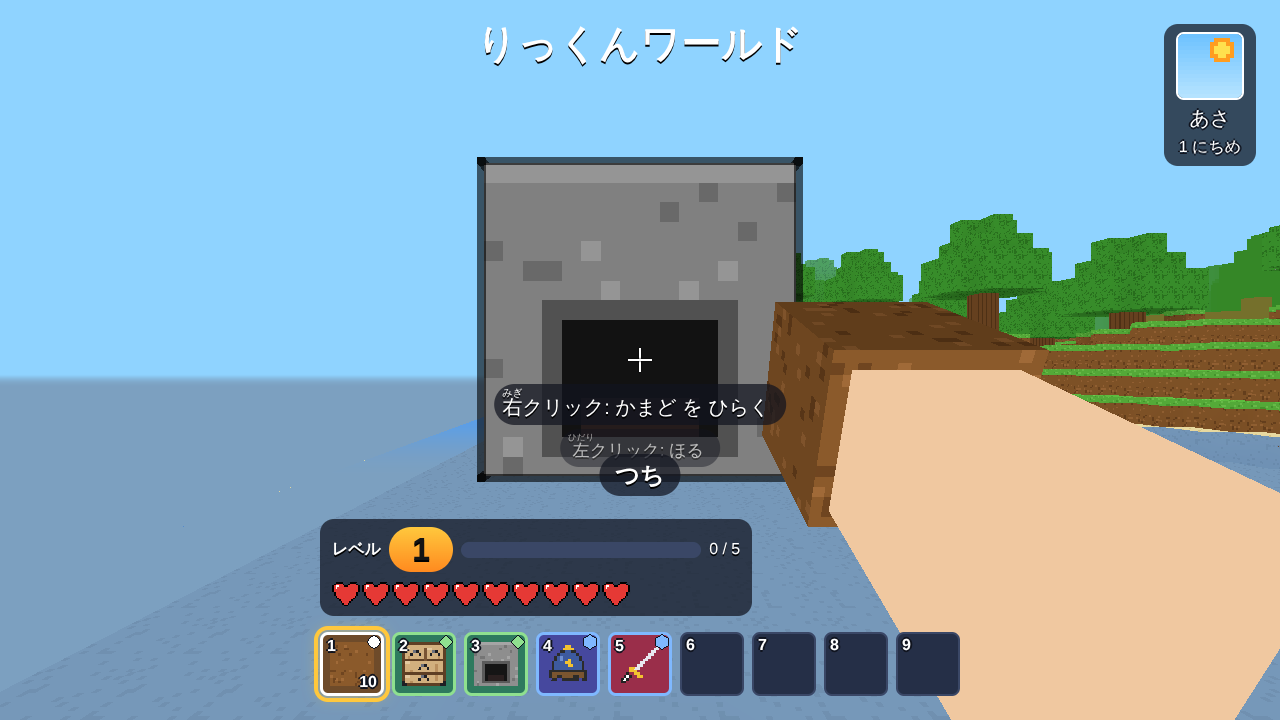
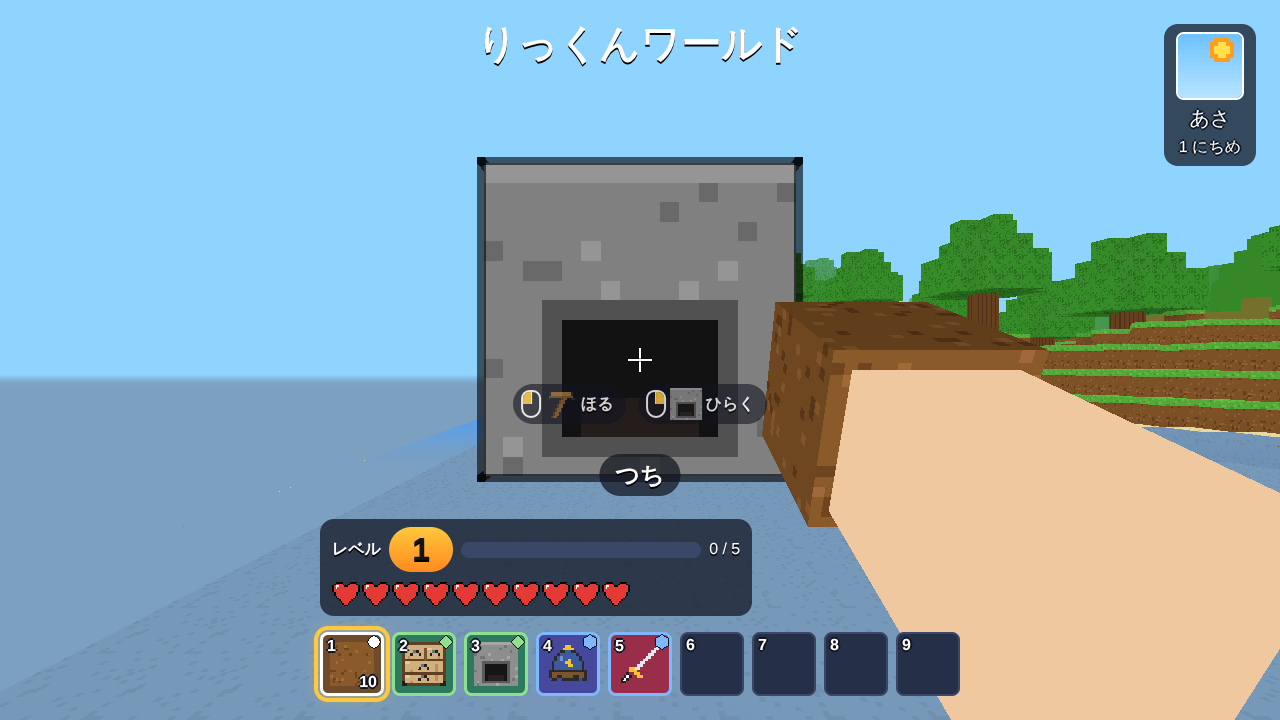
FIX-action-hint: ヒントをアイコン中心に（マウス絵＋すること絵＋1語、左右ならべ、たたく）
Claude-Session: https://claude.ai/code/session_01NoM6CHrWPosSYrqARGTm67

Changed region(s): [[0.375, 0.5194, 0.625, 0.6722]]

diff --git a/src/ui/actionHint.ts b/src/ui/actionHint.ts
@@ -1,15 +1,14 @@
-import { createChip } from './theme/parts';
-import { actionHintHtml, type ActionHintLines } from './actionHintModel';
+import type { ActionHintItem, ActionHintLines } from './actionHintModel';
+import { itemIconUrl } from './itemIcon';
 import './actionHint.css';
 
 /**
- * 照準（＋）の すぐ下に「みぎクリック: 〇〇」を出す小さなチップ（FIX-action-hint）。
- * 文は previewRightClick（実行と同じ判定）から作る。毎ステップ update(lines) を呼ぶ。DOM: `#action-hint`
+ * 照準（＋）の すぐ下の ヒント（FIX-action-hint）。左 = 左クリック、右 = 右クリック を横にならべる。
+ * 1 つ = マウスの絵（L か R が光る）＋ すること の絵 ＋ 小さな 1 語。毎ステップ update(lines) を呼ぶ。DOM: `#action-hint`
  */
 export class ActionHint {
   readonly el: HTMLDivElement;
-  private readonly rightEl: HTMLDivElement;
-  private readonly leftEl: HTMLDivElement;
+  private readonly cells: { left: HTMLDivElement; right: HTMLDivElement };
   private shown: ActionHintLines = {};
 
   constructor(parent: HTMLElement) {
@@ -17,32 +16,43 @@ export class ActionHint {
     this.el.id = 'action-hint';
     this.el.setAttribute('aria-hidden', 'true');
     this.el.hidden = true;
-    this.rightEl = createChip({ text: '' });
-    this.rightEl.classList.add('action-hint__right');
-    this.leftEl = createChip({ text: '' });
-    this.leftEl.classList.add('action-hint__left');
-    this.rightEl.hidden = true;
-    this.leftEl.hidden = true;
-    this.el.append(this.rightEl, this.leftEl);
+    this.cells = { left: this.makeCell('left'), right: this.makeCell('right') };
+    this.el.append(this.cells.left, this.cells.right);
     parent.append(this.el);
   }
 
+  private makeCell(side: 'left' | 'right'): HTMLDivElement {
+    const c = document.createElement('div');
+    c.className = `action-hint__cell action-hint__cell--${side}`;
+    c.hidden = true;
+    c.innerHTML =
+      `<span class="action-hint__mouse"><i class="action-hint__btn action-hint__btn--l"></i><i class="action-hint__btn action-hint__btn--r"></i></span>` +
+      `<img class="action-hint__art" alt=""><span class="action-hint__word"></span>`;
+    c.querySelector('.action-hint__mouse')!.classList.add(`action-hint__mouse--${side}`);
+    return c;
+  }
+
   update(lines: ActionHintLines): void {
-    if (lines.right === this.shown.right && lines.left === this.shown.left) return;
-    this.shown = lines;
-    this.set(this.rightEl, lines.right);
-    this.set(this.leftEl, lines.left);
-    this.el.hidden = !lines.right && !lines.left;
+    if (same(lines.left, this.shown.left) && same(lines.right, this.shown.right)) return;
+    this.shown = { left: lines.left && { ...lines.left }, right: lines.right && { ...lines.right } };
+    this.set(this.cells.left, lines.left);
+    this.set(this.cells.right, lines.right);
+    this.el.hidden = !lines.left && !lines.right;
   }
 
-  /** いま出している文 */
+  /** いま出している 絵と 語 */
   current(): ActionHintLines {
-    return { ...this.shown };
+    return { left: this.shown.left && { ...this.shown.left }, right: this.shown.right && { ...this.shown.right } };
   }
 
-  private set(chip: HTMLDivElement, text: string | undefined): void {
-    chip.hidden = !text;
-    const label = chip.querySelector('.rk-chip__text');
-    if (label) label.innerHTML = text ? actionHintHtml(text) : '';
+  private set(cell: HTMLDivElement, it: ActionHintItem | undefined): void {
+    cell.hidden = !it;
+    if (!it) return;
+    (cell.querySelector('.action-hint__art') as HTMLImageElement).src = itemIconUrl(it.icon);
+    cell.querySelector('.action-hint__word')!.textContent = it.word;
   }
+}
+
+function same(a: ActionHintItem | undefined, b: ActionHintItem | undefined): boolean {
+  return a?.icon === b?.icon && a?.word === b?.word;
 }

diff --git a/src/dig/rightClick.test.ts b/src/dig/rightClick.test.ts
@@ -2,9 +2,7 @@ import { describe, expect, it } from 'vitest';
 import type { BlockId, ItemId, LockStatus, PlayerState } from '../contracts';
 import { ActionState } from '../input/actions';
 import { InventoryImpl } from '../inventory/Inventory';
-import { itemType } from '../inventory/items';
-import { findUnrubiedKanji } from '../ui/text';
-import { actionHintHtml, actionHintLines } from '../ui/actionHintModel';
+import { actionHintLines } from '../ui/actionHintModel';
 import { createDigConfig } from './config';
 import { DigSystemImpl } from './DigSystem';
 
@@ -91,27 +89,35 @@ describe('previewRightClick と 実際の右クリックが同じ', () => {
         });
 });
 
-describe('出る文', () => {
-  const nameOf = (i: ItemId) => itemType(i)?.name ?? i;
+describe('出る絵と語', () => {
   const lines = (held: ItemId | null, target: BlockId | null) => {
     const r = rig(held, target);
-    return actionHintLines(r.dig.previewRightClick(), r.dig.previewLeftClick(), nameOf);
+    return actionHintLines(r.dig.previewRightClick(), r.dig.previewLeftClick(), {
+      held,
+      heldIsPickaxe: held === 'wood_pickaxe',
+      heldIsBlade: held === 'katana',
+    });
   };
-  it('たんす・かまど・防具・置く・なし', () => {
-    expect(lines('dirt', 'tansu').right).toBe('右クリック: たんす を ひらく');
-    expect(lines('dirt', 'furnace').right).toBe('右クリック: かまど を ひらく');
-    expect(lines('kabuto', null).right).toBe('右クリック: かぶと を きる');
-    expect(lines('dirt', 'stone').right).toBe('右クリック: つち を おく');
+  it('右: たんす・かまど・防具・置く・なし', () => {
+    expect(lines('dirt', 'tansu').right).toEqual({ icon: 'tansu', word: 'ひらく' });
+    expect(lines('dirt', 'furnace').right).toEqual({ icon: 'furnace', word: 'ひらく' });
+    expect(lines('kabuto', null).right).toEqual({ icon: 'kabuto', word: 'きる' });
+    expect(lines('dirt', 'stone').right).toEqual({ icon: 'dirt', word: 'おく' });
     expect(lines('katana', 'stone').right).toBeUndefined();
     expect(lines('dirt', null).right).toBeUndefined();
   });
-  it('左クリック', () => {
-    expect(lines('katana', 'stone').left).toBe('左クリック: ほる');
+  it('左: ほる・うつ・なし', () => {
+    expect(lines('wood_pickaxe', 'stone').left).toEqual({ icon: 'wood_pickaxe', word: 'ほる' });
+    expect(lines(null, 'stone').left).toEqual({ icon: 'wood_pickaxe', word: 'ほる' });
     expect(lines(null, 'bedrock').left).toBeUndefined();
     expect(lines(null, null).left).toBeUndefined();
   });
-  it('漢字には ふりがな', () => {
-    expect(findUnrubiedKanji(actionHintHtml('右クリック: つち を おく'))).toEqual([]);
-    expect(findUnrubiedKanji(actionHintHtml('左クリック: ほる'))).toEqual([]);
+  it('左: 妖怪が手前なら たたく', () => {
+    const r = rig('katana', 'stone');
+    const gate = { blocksInput: () => false, primaryStep: () => false, placeBlocked: () => false, aimsYokai: () => true };
+    const d = new DigSystemImpl(r.world as never, () => ({ position: { x: 2.5, y: 9, z: 6.5 }, velocity: { x: 0, y: 0, z: 0 }, yawDeg: 90, pitchDeg: 0, onGround: true, inWater: false, moving: false }), new ActionState(), { locked: () => true, overlayVisible: () => false, realtimeAllowed: () => true, playInputEnabled: () => true }, r.inv, () => 1.62, createDigConfig(), () => 0, gate);
+    d.update();
+    expect(d.previewLeftClick()).toBe('hit');
+    expect(actionHintLines(null, 'hit', { held: 'katana', heldIsPickaxe: false, heldIsBlade: true }).left).toEqual({ icon: 'katana', word: 'たたく' });
   });
 });

diff --git a/src/ui/actionHintModel.ts b/src/ui/actionHintModel.ts
@@ -1,48 +1,51 @@
-import { escapeHtml, ruby } from './text';
 import type { ItemId } from '../contracts';
 import type { LeftClickKind, RightClickPreview } from '../dig/rightClick';
 
+/** ヒント 1 つ: どのボタンで・どの絵で・どの 1 語か */
+export interface ActionHintItem {
+  /** すること の絵にする アイテム */
+  icon: ItemId;
+  /** ひらがなの 1 語 */
+  word: string;
+}
+
 export interface ActionHintLines {
-  right?: string;
-  left?: string;
+  right?: ActionHintItem;
+  left?: ActionHintItem;
+}
+
+export interface ActionHintCtx {
+  held: ItemId | null;
+  /** 持っているものが ツルハシ か（ほる の絵に使う） */
+  heldIsPickaxe: boolean;
+  /** 持っているものが 武器 か（たたく の絵に使う） */
+  heldIsBlade: boolean;
 }
 
 /**
- * 照準の下に出す文（「右」「左」だけ漢字（表示のとき ruby でふりがな）。名前は items の名前をそのまま使う）。
- * 新しい動きを足すときは、ここに kind の文を 1 行足す。
+ * 照準の下に出す 絵と 1 語。新しい動きを足すときは、ここに kind の絵と語を 1 行足す
+ * （たがやす = くわ、まく = たね、たべる = やさい、しゅうかく = かご など）。
  */
-export function actionHintLines(
-  right: RightClickPreview | null,
-  left: LeftClickKind | null,
-  nameOf: (item: ItemId) => string,
-): ActionHintLines {
+export function actionHintLines(right: RightClickPreview | null, left: LeftClickKind | null, c: ActionHintCtx): ActionHintLines {
   const out: ActionHintLines = {};
   if (right) {
-    const name = right.item ? nameOf(right.item) : '';
     switch (right.kind) {
       case 'storage':
-        out.right = '右クリック: たんす を ひらく';
+        out.right = { icon: 'tansu', word: 'ひらく' };
         break;
       case 'furnace':
-        out.right = '右クリック: かまど を ひらく';
+        out.right = { icon: 'furnace', word: 'ひらく' };
         break;
       case 'armor':
-        out.right = `右クリック: ${name} を きる`;
+        out.right = { icon: right.item!, word: 'きる' };
         break;
       case 'place':
-        out.right = `右クリック: ${name} を おく`;
+        out.right = { icon: right.item!, word: 'おく' };
         break;
     }
   }
-  if (left === 'dig') out.left = '左クリック: ほる';
-  else if (left === 'shoot') out.left = '左クリック: や を うつ';
+  if (left === 'dig') out.left = { icon: c.held && c.heldIsPickaxe ? c.held : 'wood_pickaxe', word: 'ほる' };
+  else if (left === 'hit') out.left = { icon: c.held && c.heldIsBlade ? c.held : 'bokuto', word: 'たたく' };
+  else if (left === 'shoot') out.left = { icon: 'yumi', word: 'うつ' };
   return out;
-}
-
-/** 表示用の HTML（先頭の 右・左 にふりがな） */
-export function actionHintHtml(text: string): string {
-  const e = escapeHtml(text);
-  if (e.startsWith('右')) return ruby('右', 'みぎ') + e.slice(1);
-  if (e.startsWith('左')) return ruby('左', 'ひだり') + e.slice(1);
-  return e;
 }

diff --git a/src/ui/actionHint.css b/src/ui/actionHint.css
@@ -1,22 +1,59 @@
-/* 照準の すぐ下。合図の文（#notice-signal-text、1 秒だけ）は これの上に重なる */
+/* 照準の すぐ下。左クリック（左）と 右クリック（右）を横にならべる。合図の文（1 秒だけ）は これの上に重なる */
 #action-hint {
   position: fixed;
   left: 50%;
   top: calc(50% + var(--rk-sp-5));
   transform: translateX(-50%);
   display: flex;
-  flex-direction: column;
-  align-items: center;
-  gap: var(--rk-sp-1);
+  gap: var(--rk-sp-3);
+  align-items: stretch;
   pointer-events: none;
   z-index: 4;
   white-space: nowrap;
 }
 #action-hint[hidden],
-#action-hint .rk-chip[hidden] {
+#action-hint .action-hint__cell[hidden] {
   display: none;
 }
-#action-hint .action-hint__left {
-  opacity: 0.6;
-  font-size: calc(var(--rk-fs-body) * 0.85);
+.action-hint__cell {
+  display: flex;
+  align-items: center;
+  gap: var(--rk-sp-1);
+  padding: var(--rk-sp-1) var(--rk-sp-3) var(--rk-sp-1) var(--rk-sp-2);
+  background: var(--rk-hud-bg);
+  border-radius: var(--rk-r-pill);
+  opacity: 0.8;
+}
+.action-hint__art {
+  width: var(--rk-icon-chip);
+  height: var(--rk-icon-chip);
+  image-rendering: pixelated;
+}
+.action-hint__word {
+  color: var(--rk-text);
+  font-size: var(--rk-fs-small, 16px);
+  font-weight: 700;
+}
+/* マウスの絵: 左右のボタンのうち 使うほうだけ光る */
+.action-hint__mouse {
+  position: relative;
+  display: inline-flex;
+  width: 20px;
+  height: 28px;
+  border: 2px solid var(--rk-text);
+  border-radius: 10px 10px 12px 12px;
+  overflow: hidden;
+  box-sizing: border-box;
+}
+.action-hint__btn {
+  flex: 1;
+  height: 12px;
+  background: transparent;
+}
+.action-hint__btn--l {
+  border-right: 1px solid var(--rk-text);
+}
+.action-hint__mouse--left .action-hint__btn--l,
+.action-hint__mouse--right .action-hint__btn--r {
+  background: var(--rk-accent, #ffd23f);
 }

diff --git a/e2e/fixActionHint.spec.ts b/e2e/fixActionHint.spec.ts
@@ -40,23 +40,23 @@ test('ねらう物でヒントの文がかわる', async ({ page }) => {
   // つち を持って ブロックをねらう
   await select('dirt');
   await put('stone');
-  expect(await hint()).toEqual({ right: '右クリック: つち を おく', left: '左クリック: ほる' });
+  expect(await hint()).toEqual({ right: { icon: 'dirt', word: 'おく' }, left: { icon: 'wood_pickaxe', word: 'ほる' } });
 
   // たんす・かまど
   await put('tansu');
-  expect((await hint()).right).toBe('右クリック: たんす を ひらく');
+  expect((await hint()).right).toEqual({ icon: 'tansu', word: 'ひらく' });
   await put('furnace');
-  expect((await hint()).right).toBe('右クリック: かまど を ひらく');
+  expect((await hint()).right).toEqual({ icon: 'furnace', word: 'ひらく' });
   await page.screenshot({ path: 'docs/screenshots/fix-action-hint.png' });
 
   // 防具
   await put('stone');
   await select('kabuto');
-  expect((await hint()).right).toBe('右クリック: かぶと を きる');
+  expect((await hint()).right).toEqual({ icon: 'kabuto', word: 'きる' });
 
   // 刀でブロック: 置けないので 左だけ
   await select('katana');
-  expect(await hint()).toEqual({ left: '左クリック: ほる' });
+  expect(await hint()).toEqual({ left: { icon: 'wood_pickaxe', word: 'ほる' } });
 
   // 設定で消せる
   await select('dirt');

diff --git a/src/combat/PlayerCombat.ts b/src/combat/PlayerCombat.ts
@@ -51,6 +51,8 @@ export interface PunchGate {
    * blockDistance: 線がブロックにふれる距離（なければ null）
    */
   primaryStep(primary: boolean, eye: Vec3, dir: Vec3, blockDistance: number | null): boolean;
+  /** 左クリックしたら 妖怪をたたくか（とどく距離内で いちばん手前が妖怪。ヒント用。primaryStep と同じ判定） */
+  aimsYokai?(eye: Vec3, dir: Vec3, blockDistance: number | null): boolean;
   /** そのマスに妖怪の当たりの箱があるか（ブロックを置けない） */
   placeBlocked(x: number, y: number, z: number): boolean;
 }
@@ -245,6 +247,15 @@ export class PlayerCombatImpl implements PlayerCombat, PunchGate {
 
   placeBlocked(x: number, y: number, z: number): boolean {
     return this.d.yokai().occupies(x, y, z);
+  }
+
+  aimsYokai(eye: Vec3, dir: Vec3, blockDistance: number | null): boolean {
+    if (this.isDead) return false;
+    const tp = this.d.tool?.punchParams();
+    const reach = tp ? tp.reach : this.config.punchReach;
+    const maxD = blockDistance === null ? reach : Math.min(blockDistance, reach);
+    const hit = this.d.yokai().raycast(eye, dir, maxD);
+    return !!hit && (blockDistance === null || hit.distance < blockDistance);
   }
 
   primaryStep(primary: boolean, eye: Vec3, dir: Vec3, blockDistance: number | null): boolean {

diff --git a/src/dig/DigSystem.ts b/src/dig/DigSystem.ts
@@ -403,12 +403,17 @@ export class DigSystemImpl implements DigSystem {
     });
   }
 
-  /** 今、左クリックしたら ほる（または や を うつ）か。出すヒントの薄い行用（たたく は 妖怪の位置を見ないので出さない） */
+  /** 今、左クリックしたら 何をするか（たたく・ほる・や を うつ）。出すヒントの薄い行用（妖怪が手前なら 'hit'） */
   previewLeftClick(): LeftClickKind | null {
     if (!this.lock.playInputEnabled() || this.gate?.blocksInput()) return null;
     const tool = this.m4.tools?.current();
     if (tool?.kind === 'bow') return 'shoot';
     const t = this.tgt;
+    if (this.gate?.aimsYokai) {
+      const p = this.player();
+      const eye = { x: p.position.x, y: p.position.y + this.eyeHeight(), z: p.position.z };
+      if (this.gate.aimsYokai(eye, lookDirection(p.yawDeg, p.pitchDeg, this.dir), t?.distance ?? null)) return 'hit';
+    }
     if (!t) return null;
     return 'steps' in digSteps(this.config, t.id, tool?.level) ? 'dig' : null;
   }

diff --git a/src/debug/testHook.ts b/src/debug/testHook.ts
@@ -62,8 +62,8 @@ export interface TestHook {
   yokai: ReturnType<typeof createYokaiHook>['yokai'];
   /** M6 §6.1: 実績・おめでとう画面 */
   achievements: ReturnType<typeof createAchievementsHook> & { modal(): unknown; close(): unknown; sounds(): string[]; mute(on: boolean): void };
-  /** FIX-action-hint: 照準の下に出している文 */
-  hud: { actionHint(): { right?: string; left?: string } };
+  /** FIX-action-hint: 照準の下に出している 絵（アイテム名）と 1 語 */
+  hud: { actionHint(): { right?: { icon: string; word: string }; left?: { icon: string; word: string } } };
   /** M6 §6.1: たんす */
   storage: ReturnType<typeof createStorageHook>;
 }

diff --git a/src/main.ts b/src/main.ts
@@ -735,7 +735,7 @@ game.onUpdate((dt) => {
   combatUi.clock.setTime(time.dayTick(), timeSettings, time.day() + 1);
   viewActions.endFrame();
   crosshair.setVisible(rig.crosshairVisible() && screen.mode() === 'play');
-  actionHint.update(hintVisible() ? actionHintLines(dig.previewRightClick(), dig.previewLeftClick(), nameOf) : {});
+  actionHint.update(hintVisible() ? actionHintLines(dig.previewRightClick(), dig.previewLeftClick(), { held: tools.current().item, heldIsPickaxe: tools.current().kind === 'pickaxe', heldIsBlade: tools.current().kind === 'blade' }) : {});
   hotbar.update();
   inventoryScreen.update();
   storageScreen.update();

diff --git a/src/dig/rightClick.ts b/src/dig/rightClick.ts
@@ -14,7 +14,7 @@ export interface RightClickPreview {
 }
 
 /** 左クリックで起きること（ヒント用） */
-export type LeftClickKind = 'dig' | 'shoot';
+export type LeftClickKind = 'dig' | 'shoot' | 'hit';
 
 /** 判定に要るものだけ（DigSystem が毎回つくる。ブロックや持ち物は変えない） */
 export interface RightClickCtx {
